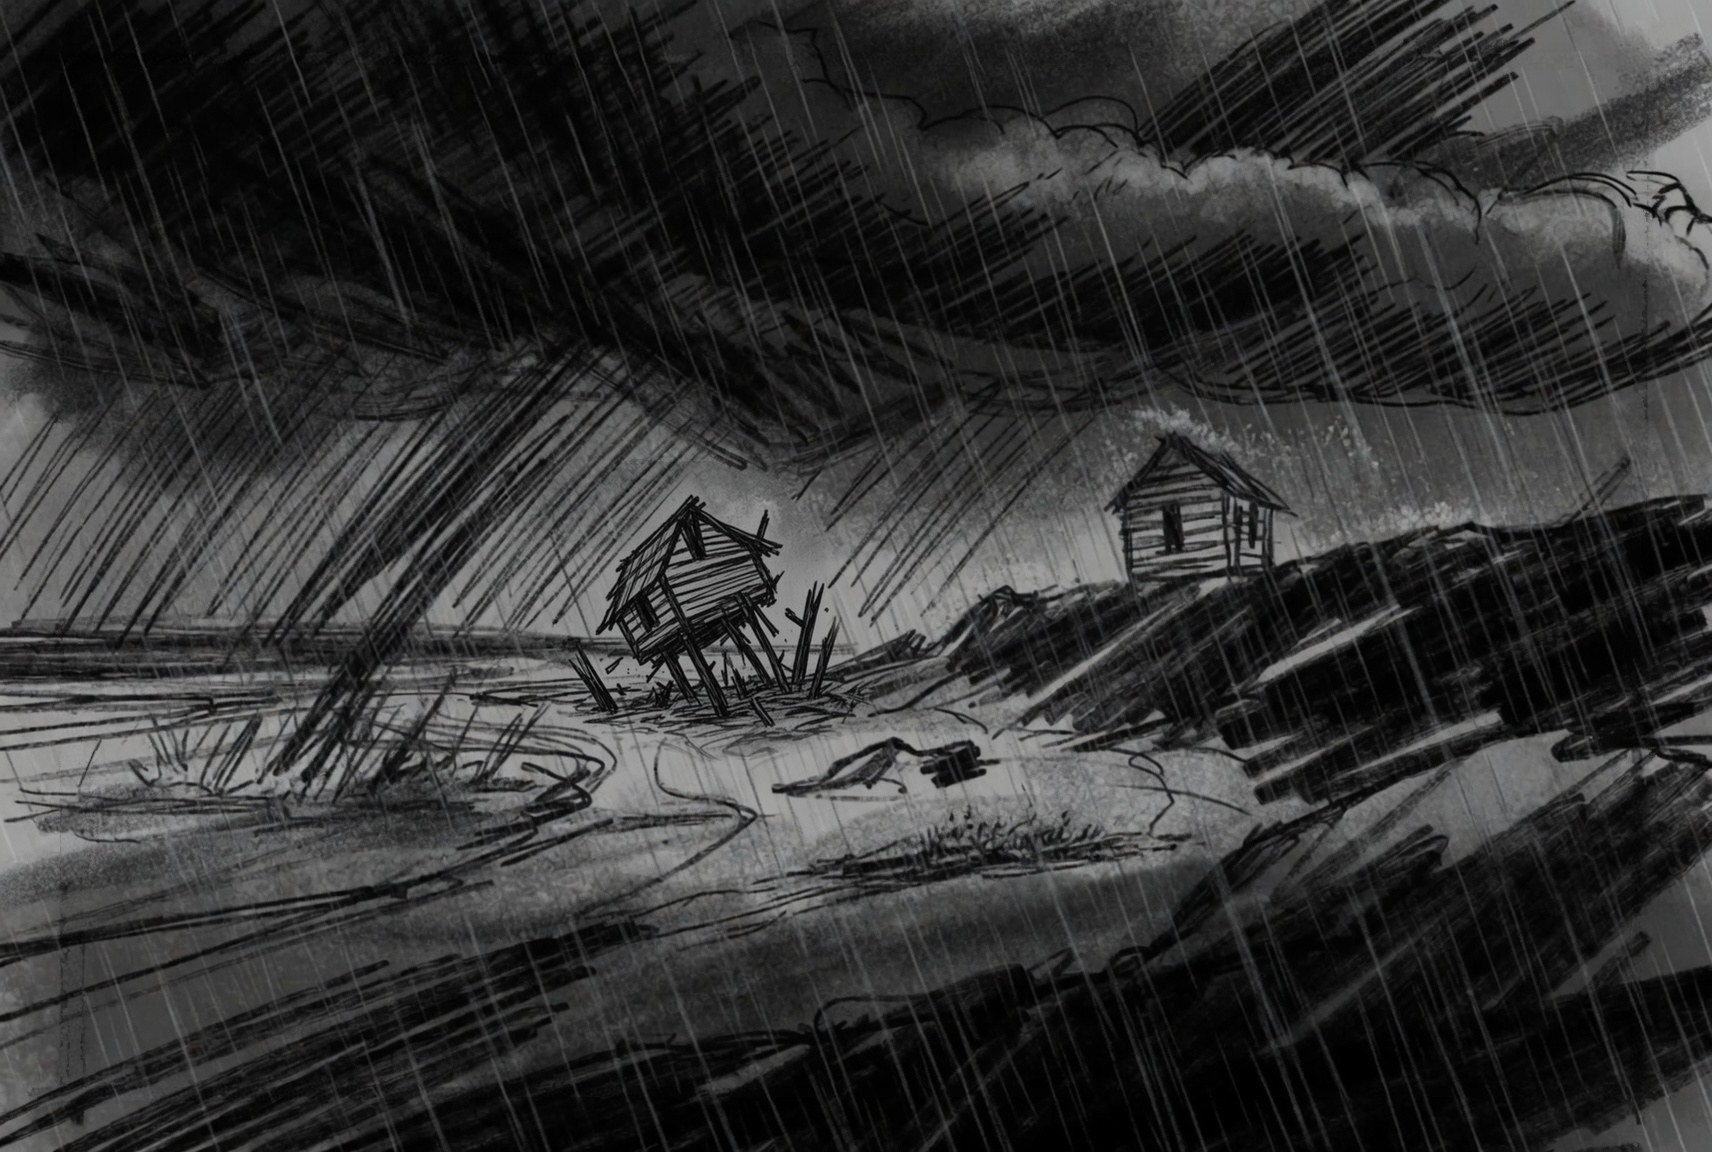
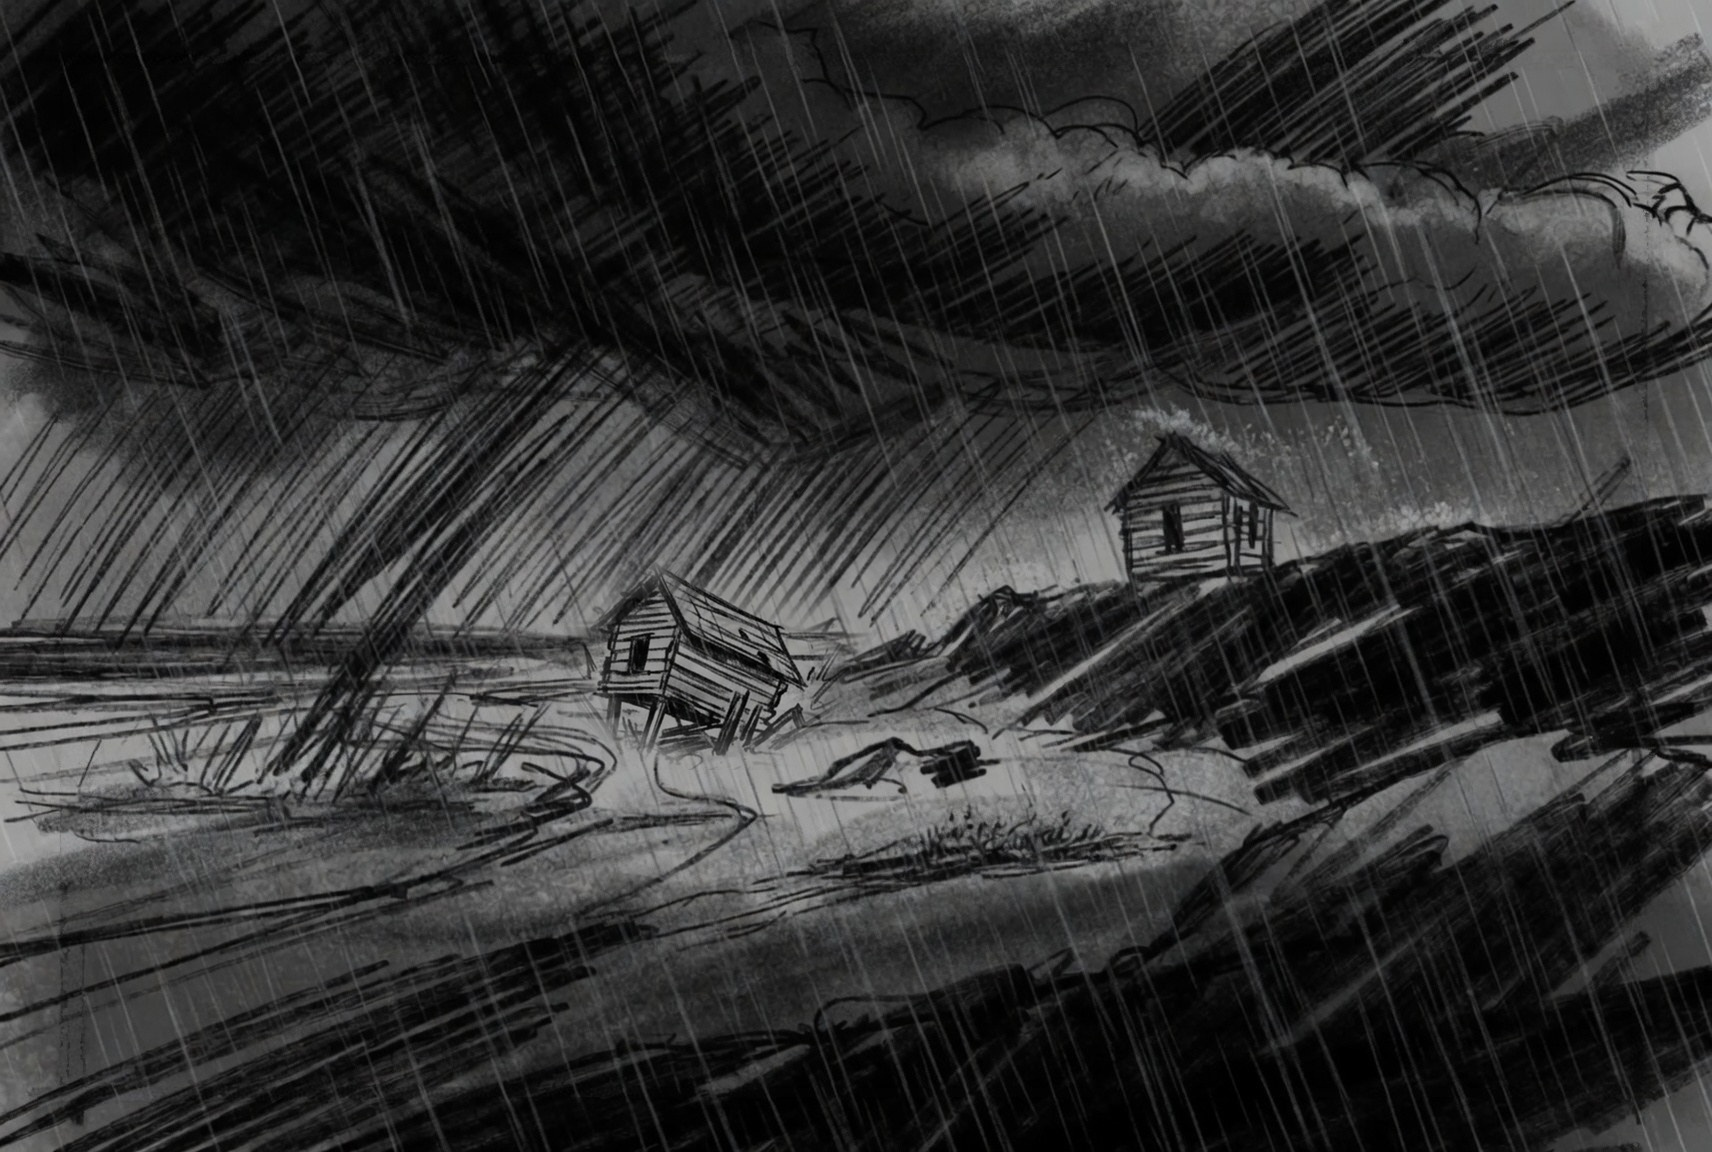
202-02: fix Wise & Foolish Builders storm sequence so sand house collapses downward

Changed region(s): [[0.3096, 0.375, 0.5263, 0.6562]]

diff --git a/discipleship/scripts/lesson-image-assets.js b/discipleship/scripts/lesson-image-assets.js
@@ -1820,7 +1820,7 @@
     "images/house-rock-seq-2.jpg": {
         "width": 1712,
         "height": 1152,
[2 lines of base64/hex data omitted]
         "variants": [
             {
                 "src": "images/optimized/house-rock-seq-2-640.webp",
@@ -1835,7 +1835,7 @@
     "images/house-rock-seq-3.jpg": {
         "width": 1712,
         "height": 1152,
[2 lines of base64/hex data omitted]
         "variants": [
             {
                 "src": "images/optimized/house-rock-seq-3-640.webp",
@@ -1850,7 +1850,7 @@
     "images/house-rock-seq-4.jpg": {
         "width": 1712,
         "height": 1152,
[2 lines of base64/hex data omitted]
         "variants": [
             {
                 "src": "images/optimized/house-rock-seq-4-640.webp",

diff --git a/discipleship/story-image.md b/discipleship/story-image.md
@@ -57,7 +57,7 @@ Look at `data/201-01.json` and `images/running-father-seq-1.jpg` through `images
 - **Identical dimensions across all frames:** Every frame in a sequence must have the exact same pixel width and height (for example, `1248x832` in `201-01`) so the container height never shifts during scroll.
 - **Locked background plate:** Keep the background environment, horizon, road, lighting, and stationary figures locked in the exact same pixel positions across every frame.
 - **Progressive subject motion:** Only the moving subject changes from frame to frame. In `201-01`, the returning son stands at the same spot down the road in all 5 frames while the father progresses from large in the foreground (`seq-1`), down the road (`seq-2`, `seq-3`, `seq-4`), to standing right beside his son with his arm reaching out (`seq-5`).
-- **Hold a beat by repeating a frame:** If a frame needs to pause on screen longer during scroll, list the same image path twice in `imageSequence` across two adjacent stops (as `202-02` does with `house-rock-seq-2.jpg`).
+- **Hold a beat by repeating a frame:** If a frame needs to pause on screen longer during scroll, list the same image path twice in `imageSequence` across two adjacent stops (as `202-02` does with `house-rock-seq-1.jpg`).
 
 ### JSON Shape (`imageSequence`)
 
@@ -116,7 +116,7 @@ The existing engine places the image top at `contentTop + visibleHeight * (0.40 
 - **3 frames (`201-02` The Family Robe):** `[0, 0.25, 0.45]`
 - **4 frames (`201-06` Creation):** `[0, 0.25, 0.4, 0.65]` (or `[0, 0.18, 0.34, 0.5]`)
 - **5 frames (`201-01` Running Father):** `[0, 0.16, 0.3, 0.44, 0.58]`
-- **7 entries with a slow last dissolve (`202-02` Wise Builder):** `[0, 0.067, 0.133, 0.2, 0.267, 0.4, 0.6]`
+- **6 entries with a seq-1 hold and slow last dissolve (`202-02` Wise Builder):** `[0, 0.08, 0.18, 0.3, 0.42, 0.6]`
 - **7 entries with 0.08 holds and a 0.24 last dissolve (`202-01` Good Samaritan):** `[0, 0.08, 0.16, 0.24, 0.32, 0.40, 0.64]`
 - **3 entries with a 0.3 hold and last frame at 0.45 (`203-01` Roof Drop):** `[0, 0.3, 0.45]`
 - **3 entries with a seq-1 hold and last frame at 0.3 (`202-06` Moses veil):** `[0, 0.2, 0.3]`
@@ -192,7 +192,7 @@ Optional `imageDissolveOnEntry: true` on a two-layer image starts at 100% B&W wh
 | 201-09 | The Vine and the Branches | **4-Frame Sequence** | `vine-branches-seq-1.jpg` .. `4.jpg` (stops `[0, 0.18, 0.34, 0.5]`) | Live (`touchNext: true`) |
 | 201-10 | Coming to His Senses | B&W -> Color | `prodigal-son-two-brothers-bw.jpg` -> `prodigal-son-two-brothers-color.jpg` | Live (`touchNext: true`) |
 | 202-01 | The Good Samaritan | **7-Stop Sequence** | `202-01-good-samaritan-seq-1.jpg` .. `4.jpg` (stops `[0, 0.08, 0.16, 0.24, 0.32, 0.40, 0.64]`; `good-samaritan-story.jpg` kept unused) | Live (`touchNext: true`) |
-| 202-02 | The Wise and Foolish Builders | **7-Stop Sequence** | `house-rock-seq-1.jpg` .. `3.jpg`, `5.jpg` (stops `[0, 0.067, 0.133, 0.2, 0.267, 0.4, 0.6]`; seq-4 unused) | Live sequence |
+| 202-02 | The Wise and Foolish Builders | **6-Stop Sequence** | `house-rock-seq-1.jpg` .. `5.jpg` (stops `[0, 0.08, 0.18, 0.3, 0.42, 0.6]`; seq-1 listed twice) | Live sequence (`touchNext: true`) |
 | 202-03 | The Early Church | **4-Frame Sequence** | `early-church-seq-1.jpg` .. `4.jpg` (stops `[0, 0.18, 0.34, 0.5]`) | Live (`touchNext: true`) |
 | 202-04 | The Five Farmers in the Field | B&W -> Color | `Farmer-bw.jpeg` -> `Farmer-color.jpg` | Live (`touchNext: true`) |
 | 202-05 | The Pit, the Prison, and the Palace | B&W -> Color | `202-05-joseph-pit-palace-bw.jpg` -> `202-05-joseph-pit-palace-color.jpg` | Live (`touchNext: true`) |
